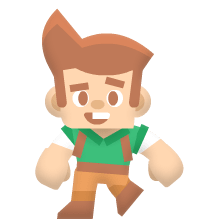
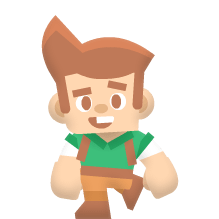
Boy studies further to do things

Changed region(s): [[0.137, 0.274, 0.8493, 1.0], [0.1644, 0.0274, 0.7123, 0.3562]]

diff --git a/src/Boy.java b/src/Boy.java
@@ -10,6 +10,7 @@ public class Boy {
     int cellSide = Values.CELL_SIZE;
     int whatMove = 0; //Stand = 0; Up = 1; Down = 2; Left = 3; Right = 4;
     //shoveLeftAndMove = 5; shoveLeftAndStand = 6; shoveRightAndMove = 7; shoveRightAndStand = 8;
+    //findInChest = 9; holdAStone = 10; attackLeft = 11; attackRight = 12
     boolean isMoving = false;
     int i = 0;
 
@@ -20,9 +21,9 @@ public class Boy {
             walkUp0, walkUp0, walkUp2};
 
     Image walkDown0 = new ImageIcon("boy/walkDown0.png").getImage();
-    Image walkDown1 = new ImageIcon("boy/walkDown1.png").getImage();
-    Image[] arrayDown = {walkDown0, walkDown0, walkDown1, walkDown1,
-            walkDown0, walkDown0, walkDown1};
+    Image standRight = new ImageIcon("boy/standRight.png").getImage();
+    Image[] arrayDown = {walkDown0, walkDown0, standRight, standRight,
+            walkDown0, walkDown0, standRight};
 
     Image walkLeft0 = new ImageIcon("boy/walkLeft0.png").getImage();
     Image walkLeft1 = new ImageIcon("boy/walkLeft1.png").getImage();
@@ -31,9 +32,8 @@ public class Boy {
     Image walkLeft4 = new ImageIcon("boy/walkLeft4.png").getImage();
     Image walkLeft5 = new ImageIcon("boy/walkLeft5.png").getImage();
     Image walkLeft6 = new ImageIcon("boy/walkLeft6.png").getImage();
-    Image walkLeft7 = new ImageIcon("boy/walkLeft7.png").getImage();
     Image[] arrayLeft = {walkLeft0, walkLeft1, walkLeft2, walkLeft3,
-            walkLeft4, walkLeft6, walkLeft7};
+            walkLeft4, walkLeft5, walkLeft6};
 
     Image walkRight0 = new ImageIcon("boy/walkRight0.png").getImage();
     Image walkRight1 = new ImageIcon("boy/walkRight1.png").getImage();
@@ -42,16 +42,36 @@ public class Boy {
     Image walkRight4 = new ImageIcon("boy/walkRight4.png").getImage();
     Image walkRight5 = new ImageIcon("boy/walkRight5.png").getImage();
     Image walkRight6 = new ImageIcon("boy/walkRight6.png").getImage();
-    Image walkRight7 = new ImageIcon("boy/walkRight7.png").getImage();
     Image[] arrayRight = {walkRight0, walkRight1, walkRight2, walkRight3,
-            walkRight4, walkRight6, walkRight7};
+            walkRight4, walkRight5, walkRight6};
 
-    Image shoveR = new ImageIcon("boy/shoveRight.png").getImage();
-    Image shoveL = new ImageIcon("boy/shoveLeft.png").getImage();
-    Image[] arrayShoveR = {shoveR, shoveR, shoveR, walkDown1, shoveR, shoveR, walkDown1};
-    Image[] arrayShoveL = {shoveL, shoveL, shoveL, walkDown1, shoveL, shoveL, walkDown1};
+    Image shoveLeft = new ImageIcon("boy/shoveLeft.png").getImage();
+    Image shoveRight = new ImageIcon("boy/shoveRight.png").getImage();
+    Image[] arrayShoveLeft = {shoveLeft, shoveLeft, shoveLeft, standRight, shoveLeft,
+            shoveLeft, standRight};
+    Image[] arrayShoveRight = {shoveRight, shoveRight, shoveRight, standRight,
+            shoveRight, shoveRight, standRight};
 
-    Image currentPicture = walkRight7;
+    Image lookInChest = new ImageIcon("boy/lookInChest.png").getImage();
+    Image cheer = new ImageIcon("boy/cheer.png").getImage();
+    Image[] arrayFindInChest = {lookInChest, lookInChest, lookInChest, cheer, cheer, cheer, standRight};
+
+    Image imHoldAStone = new ImageIcon("boy/holdAStone.png").getImage();
+
+    Image attackLeft0 = new ImageIcon("boy/attackLeft0.png").getImage();
+    Image attackLeft1 = new ImageIcon("boy/attackLeft1.png").getImage();
+    Image attackLeft2 = new ImageIcon("boy/attackLeft2.png").getImage();
+    Image[] arrayAttackLeft = {attackLeft0, attackLeft0, attackLeft1, attackLeft1,
+            attackLeft2, attackLeft2, standRight};
+
+    Image attackRight0 = new ImageIcon("boy/attackRight0.png").getImage();
+    Image attackRight1 = new ImageIcon("boy/attackRight1.png").getImage();
+    Image attackRight2 = new ImageIcon("boy/attackRight2.png").getImage();
+    Image standLeft = new ImageIcon("boy/standLeft.png").getImage();
+    Image[] arrayAttackRight = {attackRight0, attackRight0, attackRight1, attackRight1,
+            attackRight2, attackRight2, standLeft};
+
+    Image currentPicture = walkRight6;
 
     public Boy(int x, int y){
         this.x = x;
@@ -86,23 +106,43 @@ public class Boy {
 
     public void shoveLeftAndMove(){
         x -= cellSide / 7;
-        currentPicture = arrayShoveL[i];
+        currentPicture = arrayShoveLeft[i];
         i++;
     }
 
     public void shoveLeftAndStand(){
-         currentPicture = arrayShoveL[i];
+         currentPicture = arrayShoveLeft[i];
          i++;
     }
 
     public void shoveRightAndMove(){
         x += cellSide / 7;
-        currentPicture = arrayShoveR[i];
+        currentPicture = arrayShoveRight[i];
         i++;
     }
 
     public void shoveRightAndStand(){
-        currentPicture = arrayShoveR[i];
+        currentPicture = arrayShoveRight[i];
+        i++;
+    }
+
+    public void findInChest(){
+        currentPicture = arrayFindInChest[i];
+        i++;
+    }
+
+    public void holdAStone(){
+        currentPicture = imHoldAStone;
+        i++;
+    }
+
+    public void attackLeft(){
+        currentPicture = arrayAttackLeft[i];
+        i++;
+    }
+
+    public void attackRight(){
+        currentPicture = arrayAttackRight[i];
         i++;
     }
 }

diff --git a/src/PlayPanel.java b/src/PlayPanel.java
@@ -43,6 +43,10 @@ public class PlayPanel extends JPanel implements KeyListener {
                 else if (boy.whatMove == 6) boy.shoveLeftAndStand();
                 else if (boy.whatMove == 7) boy.shoveRightAndMove();
                 else if (boy.whatMove == 8) boy.shoveRightAndStand();
+                else if (boy.whatMove == 9) boy.findInChest();
+                else if (boy.whatMove == 10) boy.holdAStone();
+                else if (boy.whatMove == 11) boy.attackLeft();
+                else if (boy.whatMove == 12) boy.attackRight();
                 repaint();
                 if (boy.i == 7){
                     boy.i = 0;
